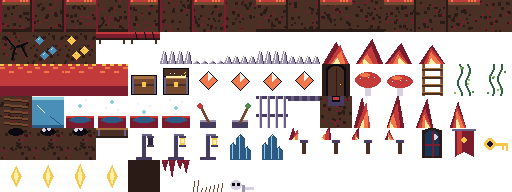
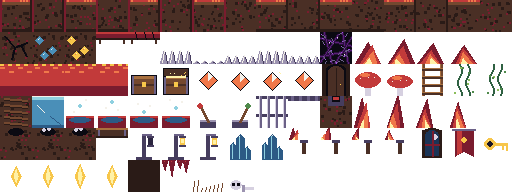
Shadowfall C2: hero crawl anim (4 f, 28 px tall) auto in caves under a one-tile ceiling; shadow-thorn n tile in every cave tileset (replaces the code-drawn stand-in)

Changed region(s): [[0.625, 0.1562, 0.9375, 0.3438]]

diff --git a/shadowfall/art/src/make_hero.py b/shadowfall/art/src/make_hero.py
@@ -159,6 +159,54 @@ def side(bob=0, front=(3, 0), back=(-3, 0), sway=0, scarf=0, hand=(9, 38), lamp=
     return s
 
 
+def crawl(i):
+    """A low crawl under a ceiling (frame i of 4): on knees and one hand, head forward, cloak flat over the back,
+    lantern hung low. Everything stays in the bottom 31 px of the frame (rows 33-63)."""
+    s = surf(48, 64)
+    g = 62
+    st = (0, 1, 0, -1)[i]                              # the stride: near hand and far knee move opposite
+    bob = (0, 0, 1, 0)[i]
+    # far leg, knee down behind, boot trailing
+    line(s, "ink2", (17, 49 + bob), (12 - st, g - 1), 4)
+    rect(s, BOOT[0], 3 - st, g - 3, 9, 3)
+    # body: low and long, leather over mail
+    poly(s, MAIL[0], [(15, 46 + bob), (31, 44 + bob), (32, 52 + bob), (16, 54 + bob)])
+    for x in range(17, 31, 2):
+        px(s, MAIL[1], x, 52 + bob)
+    poly(s, LEATHER[1], [(16, 45 + bob), (31, 43 + bob), (31, 49 + bob), (16, 51 + bob)])
+    rect(s, SASH[1], 17, 48 + bob, 4, 4)
+    # the lantern, swinging low under the belly
+    lantern(s, 24 - st, 52 + bob)
+    # near leg: thigh down to the knee on the ground, shin and boot back
+    line(s, "earth1", (18, 50 + bob), (19 + st, g - 1), 5)
+    line(s, "earth1", (19 + st, g - 1), (10 + st, g - 1), 4)
+    rect(s, BOOT[1], 4 + st, g - 4, 8, 4)
+    px(s, "earth2", 7 + st, g - 2)
+    # far arm, on the ground ahead
+    line(s, LEATHER[0], (31, 48 + bob), (36 - st, g - 1), 3)
+    # the cloak flat over the back, torn hem trailing past the boots
+    hem = torn(2, 18, 50 + bob, 4, 3, seed=i)
+    poly(s, CLOAK[1], [(33, 40 + bob), (16, 42 + bob)] + hem + [(30, 47 + bob)])
+    line(s, CLOAK[2], (31, 41 + bob), (14, 44 + bob))
+    line(s, CLOAK[0], (18, 47 + bob), (4, 52 + bob))
+    # hood low and forward, face in shadow, pale eyes
+    ellipse(s, CLOAK[1], 31, 37 + bob, 12, 12)
+    ellipse(s, "ink0", 36, 40 + bob, 7, 8)
+    ellipse(s, "ink1", 38, 42 + bob, 4, 5)
+    px(s, "ink6", 40, 43 + bob)
+    px(s, "ink7", 41, 43 + bob)
+    line(s, CLOAK[2], (32, 38 + bob), (38, 38 + bob))
+    # near arm: pauldron, vambrace, gloved hand flat on the ground
+    sh = (30, 46 + bob)
+    hand = (40 + st * 2, g - 1)
+    line(s, STEEL[1], sh, hand, 4)
+    line(s, STEEL[2], (sh[0] + 1, sh[1] - 1), (hand[0], hand[1] - 2))
+    rect(s, LEATHER[1], hand[0] - 1, hand[1] - 2, 4, 3)
+    poly(s, STEEL[0], [(26, 45 + bob), (29, 42 + bob), (33, 43 + bob), (34, 47 + bob), (27, 48 + bob)])
+    line(s, STEEL[2], (29, 43 + bob), (32, 43 + bob))
+    return outline(s)
+
+
 def side_sheet():
     sh = Sheet("hero_side", 48, 64, origin=[24, 63])
     sh.add("idle", [side(bob=b, sway=w, scarf=w, hand=(9, 38 + b)) for b, w in ((0, 0), (0, 1), (1, 1), (1, 0))], 4)
@@ -195,6 +243,7 @@ def side_sheet():
                          scarf=7, lamp=True, hand=(12, 34)) for i in range(4)], 8)
     sh.add("lantern_raise", [side(hand=(8, 30), lamp_hand=True), side(hand=(7, 20), lamp_hand=True),
                              side(hand=(6, 8), lamp_hand=True)], 10, False)
+    sh.add("crawl", [crawl(i) for i in range(4)], 8)
     base = side()
     sh.add("hurt", [flash(base), side(lean=-3, sway=-3, hand=(8, 40))], 12, False)
     death = [side(crouch=4, lean=-2, hand=(8, 42)), side(crouch=8, front=(6, 0), back=(-6, 0), hand=(9, 46), lamp=True)]

diff --git a/shadowfall/art/src/make_tiles.py b/shadowfall/art/src/make_tiles.py
@@ -98,6 +98,25 @@ def cave_set(name, th):
     sh.add("spikes", [spikes(14)], 1, False)                                    # ^
     sh.add("spike_trap", [spikes(4), spikes(9), spikes(14), spikes(9)], 6)     # A
 
+    def thorns():                                                               # n shadow thorns: a black
+        s = surf(T, T)                                                          # bramble wall, violet barbs
+        rect(s, "ink0", 0, 0, T, T)
+        rng = random.Random(41)
+        for a, b in (((0, 6), (32, 14)), ((0, 24), (32, 18)), ((4, 0), (12, 32)), ((22, 0), (28, 32)),
+                     ((0, 30), (18, 2)), ((14, 32), (32, 4))):
+            line(s, "shadow0", a, b, 3)
+            line(s, "shadow1", a, b, 1)
+        for _ in range(22):                                                     # barbs, tip lit
+            x, y = rng.randrange(1, T - 1), rng.randrange(1, T - 1)
+            dx, dy = rng.choice(((3, -2), (-3, -2), (2, 3), (-2, 3), (3, 1), (-3, 1)))
+            line(s, "ink4", (x, y), (x + dx, y + dy))
+            px(s, "shadow2", x + dx, y + dy)
+        for x, y in ((9, 11), (24, 23), (17, 6)):                               # a faint violet heart-glow
+            px(s, "shadow2", x, y)
+            px(s, "ink7", x, y - 1)
+        return s
+    sh.add("thorns", [thorns()], 1, False)                                      # n
+
     def flame(k, h=22, w=T):
         s = surf(T, T)
         for i, (col, sc) in enumerate((("ember1", 1.0), ("ember2", 0.75), ("ember3", 0.5), ("light1", 0.25))):

diff --git a/shadowfall/art/README.md b/shadowfall/art/README.md
@@ -24,11 +24,11 @@ var font: Font = load("res://art/font/body.fnt")
 
 | Sheet | Cell | Animations |
 |---|---|---|
-| `hero_side` (hooded wanderer, lantern) | 48×64 | idle 4, run 6, jump 3 (rise/apex/fall), fall 2, land 2, attack 4, air_attack 3, pogo 2, climb 4, wall_slide 1, dash 3, swim 4, lantern_raise 3, hurt 2, death 6 (ends in smoke) |
+| `hero_side` (hooded wanderer, lantern) | 48×64 | idle 4, run 6, jump 3 (rise/apex/fall), fall 2, land 2, attack 4, air_attack 3, pogo 2, climb 4, wall_slide 1, dash 3, swim 4, lantern_raise 3, crawl 4 (under 32 px), hurt 2, death 6 (ends in smoke) |
 | `hero_top` | 32×48 | idle/walk/roll/attack × `_down` `_up` `_side`, hurt 2, lantern_raise 3 |
 | `shadow_king` | 192×256 | idle 4, float 4, cast 6, summon 6, blade 4, hurt 2, fade_out 8 |
 | `monster_<id>` (18) | 32, 64 or 96 | move 4, attack 3, hurt 2, poof 4. Realm: thornling, barrow_wight, mere_lurker, frost_wolf, ash_scarab, bog_wisp, umbral_hound. Cave: cave_bat, gloom_slime, bone_crawler, ember_imp, ice_mite, sand_wyrm, mire_toad, shade. Mini-bosses 96: stone_warden, frost_matriarch, cinder_drake |
-| `tiles_<theme>` (stone, moss, crystal, lava, frost, sand, swamp, shadow, castle) | 32×32 | `solid_0`–`solid_15` (bits N1 E2 S4 W8 = that neighbour is solid), cracked `B`, ore_diamond `*`, ore_sun `s`, ledge `=`, ledge_crumbly `-`, spikes `^`, spike_trap `A`, fire `!`, lava `~`, chest `T` (closed, open), gem `$`, door `E`, mushroom `o`, ladder `H`, vine `V`, rope `R`, climb_wall `%`, ice `I`, spring `u`, lever `L`, gate `G` (shut, open), flame_jet `J` + flame, geyser `M`, platform `P` `U`, checkpoint / checkpoint_lit `C`, crystal, torch `i`, window `w`, banner `f`, key `K`, light_shard `+`, back_wall, stalactite, tuft, skull |
+| `tiles_<theme>` (stone, moss, crystal, lava, frost, sand, swamp, shadow, castle) | 32×32 | `solid_0`–`solid_15` (bits N1 E2 S4 W8 = that neighbour is solid), cracked `B`, ore_diamond `*`, ore_sun `s`, ledge `=`, ledge_crumbly `-`, spikes `^`, spike_trap `A`, thorns `n`, fire `!`, lava `~`, chest `T` (closed, open), gem `$`, door `E`, mushroom `o`, ladder `H`, vine `V`, rope `R`, climb_wall `%`, ice `I`, spring `u`, lever `L`, gate `G` (shut, open), flame_jet `J` + flame, geyser `M`, platform `P` `U`, checkpoint / checkpoint_lit `C`, crystal, torch `i`, window `w`, banner `f`, key `K`, light_shard `+`, back_wall, stalactite, tuft, skull |
 | `realm_<land>` (emberhold, weepingwold, hollowcrown, drowned_mere, wintermarch, cinder_wastes, mirefen, shadowgate, umbral_reach) | 32×32 | ground_0–2, path_0–2, water + `shore_0`–`shore_14` (same bits; set = water there), tree_top + tree `F`, rock `X`, cliff_face, reeds `B`, bush, house `H`, mine `M`, portal `P`, castle `C`, sign `+`, chest `T`, vent `V`, waystone / waystone_lit `L`, bridge `#`, bridge_broken `=`, gate_ivy `Y`, gate_rubble `O`, gate_thorns `K` |
 
 ## Other files

diff --git a/shadowfall/caves/README.md b/shadowfall/caves/README.md
@@ -55,8 +55,8 @@ breaks. Letter -> tile is in `CaveArt.MAP_TILE` (in the TileMap) and `CaveArt.SP
 animated at the sheet's fps). Parallax: `art/parallax/<theme>_{far,back,mid,front}` at 0, 0.25, 0.5 and
 1.4x; the front rocks only scroll sideways and are 60 % see-through so they never hide the floor.
 Monsters: z `barrow_wight`, k `bone_crawler`, c `ember_imp`, x `cave_bat`; hurt = white flash, telegraph =
-attack pose pulsing red. Hero: `hero_side`, animation from its state. Still drawn in code: shadow thorns
-`n`, the `<` `>` markers, geyser steam, ropes, arrows.
+attack pose pulsing red. Hero: `hero_side`, animation from its state; `crawl` on the floor while rock is within a tile above its head. Still
+drawn in code: the `<` `>` markers, geyser steam, ropes, arrows.
 
 ## Juice (`cave_juice.gd`, gameplay §4, same numbers as the realm)
 Sword hit: 3 f stop, shake 1 px/4 f, sparks, white flash. Kill: 6 f, 2/6, the monster's `poof` + light
